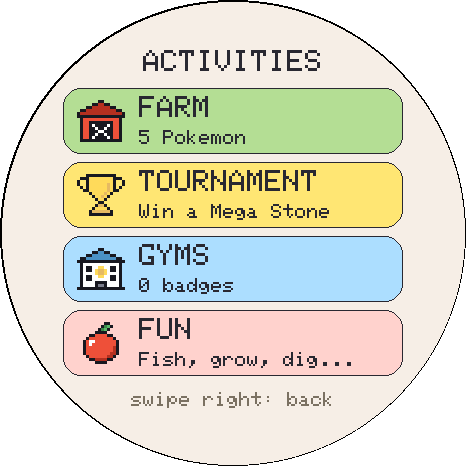
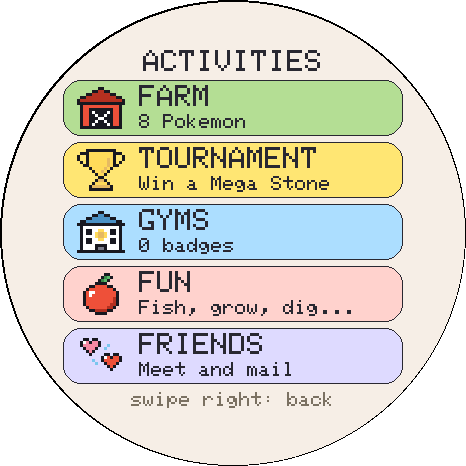
README: screenshots for care, friends, scenes and the points book; SHOTNAME
- Care: feeding menu, bath and head pat
- Friends: the Friends page, Meet, a friend nearby, playing together, a
  messenger arriving and the postcard it brings
- World: a snowy night, Christmas and Halloween
- Points book next to the shop confirmation; the Activities screenshot
  now has the fifth row (Friends)
- The Friends section says the entry is "Friends" (Meet is inside it)
- Serial SHOTNAME name (RAM only, empty = real names): friend names, the
  "I love you, ..." bubble and the birthday line show that name, so public
  screenshots carry no real names

diff --git a/README.md b/README.md
@@ -213,6 +213,8 @@ laying it face down puts it to sleep, and a hard shake makes it dizzy.
 - **Natures** (rolled at hatch): easygoing, glutton, playful, tidy, lazy. One
   need drops a little faster and its favourite care gives more.
 
+<table><tr><td align="center"><img src="docs/screenshots/en/care_feed.png" width="220" alt="Feeding"><br>Feeding</td><td align="center"><img src="docs/screenshots/en/care_bath.png" width="220" alt="Bath"><br>Bath</td><td align="center"><img src="docs/screenshots/en/care_pat.png" width="220" alt="Head pat"><br>Head pat</td></tr></table>
+
 ### Growing up
 
 - Evolution is by **age**, the same for every line: the first at 3 days, the
@@ -271,7 +273,7 @@ last week.
 
 <table><tr><td align="center"><img src="docs/screenshots/en/shop.png" width="220" alt="Shop"><br>Shop</td><td align="center"><img src="docs/screenshots/en/bag.png" width="220" alt="Bag"><br>Bag</td><td align="center"><img src="docs/screenshots/en/accessories.png" width="220" alt="Accessories"><br>Accessories</td></tr></table>
 
-<table><tr><td align="center"><img src="docs/screenshots/en/shop_confirm.png" width="220" alt="Confirm before buying"><br>Confirm before buying</td></tr></table>
+<table><tr><td align="center"><img src="docs/screenshots/en/shop_confirm.png" width="220" alt="Confirm before buying"><br>Confirm before buying</td><td align="center"><img src="docs/screenshots/en/points_book.png" width="220" alt="Points book"><br>Points book</td></tr></table>
 
 ### Surprises in the grass
 
@@ -388,10 +390,10 @@ activity; if you won, the rare finds are twice as likely.
 
 ### Friends: meet and mail
 
-When a friend has a board too, the two can become friends. Swipe left on the main screen and tap **MEET**.
-Both boards need this firmware or newer.
+When a friend has a board too, the two can become friends. Swipe left on the main screen and tap **FRIENDS**: **MEET** is at
+the top and your friends are listed below. Both boards need this firmware or newer.
 
-**Meet (boards side by side)**: both open the **MEET** page and each board finds the other when they are close.
+**Meet (boards side by side)**: both open **MEET** and each board finds the other when they are close.
 Tap the other board and say yes on both; the two screens show the same 4-digit code, and once it matches you
 are friends. While the page is open the boards talk directly over radio (ESP-NOW) and home Wi-Fi pauses; it
 comes back when the page closes or after 3 idle minutes.
@@ -419,6 +421,10 @@ encrypted and signed with the key made when the two boards paired, so the mailbo
 own mailbox, deploy the free Cloudflare Worker in [`tools/mailbox-worker`](tools/mailbox-worker/README.md) and
 set `MAILBOX_URL` and `MAILBOX_KEY` in `config_private.h`. Friends belong to the save, not the board: move a
 save to another board and your friends still know it.
+
+<table><tr><td align="center"><img src="docs/screenshots/en/friends.png" width="220" alt="Friends"><br>Friends</td><td align="center"><img src="docs/screenshots/en/friends_meet.png" width="220" alt="Meet"><br>Meet</td><td align="center"><img src="docs/screenshots/en/friends_menu.png" width="220" alt="A friend nearby"><br>A friend nearby</td></tr></table>
+
+<table><tr><td align="center"><img src="docs/screenshots/en/friends_play.png" width="220" alt="Play together"><br>Play together</td><td align="center"><img src="docs/screenshots/en/friends_mail.png" width="220" alt="A messenger arrives"><br>A messenger arrives</td><td align="center"><img src="docs/screenshots/en/friends_card.png" width="220" alt="Postcard"><br>Postcard</td></tr></table>
 
 ### Mega Evolution
 
@@ -473,6 +479,8 @@ Same conditions as the steps: board plugged in, phone on the home Wi-Fi.
 - **Standby clock:** plugged in and untouched for 90 seconds, the screen shows
   a large clock with the date and weather.
 - Time comes from NTP at boot and every hour.
+
+<table><tr><td align="center"><img src="docs/screenshots/en/scene_snow_night.png" width="220" alt="Snowy night"><br>Snowy night</td><td align="center"><img src="docs/screenshots/en/scene_christmas.png" width="220" alt="Christmas"><br>Christmas</td><td align="center"><img src="docs/screenshots/en/scene_halloween.png" width="220" alt="Halloween"><br>Halloween</td></tr></table>
 
 ### Stack-chan / xiaozhi (optional)
 
